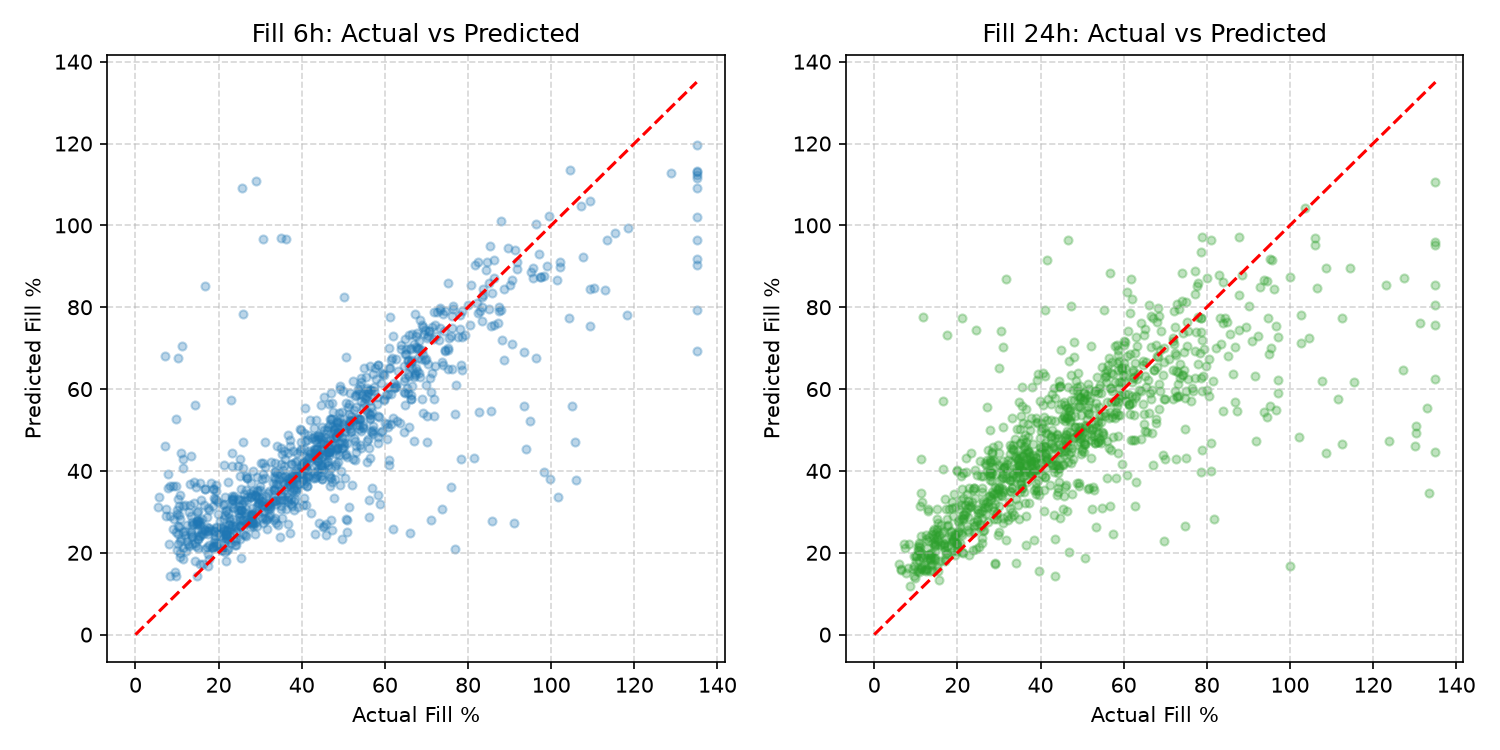
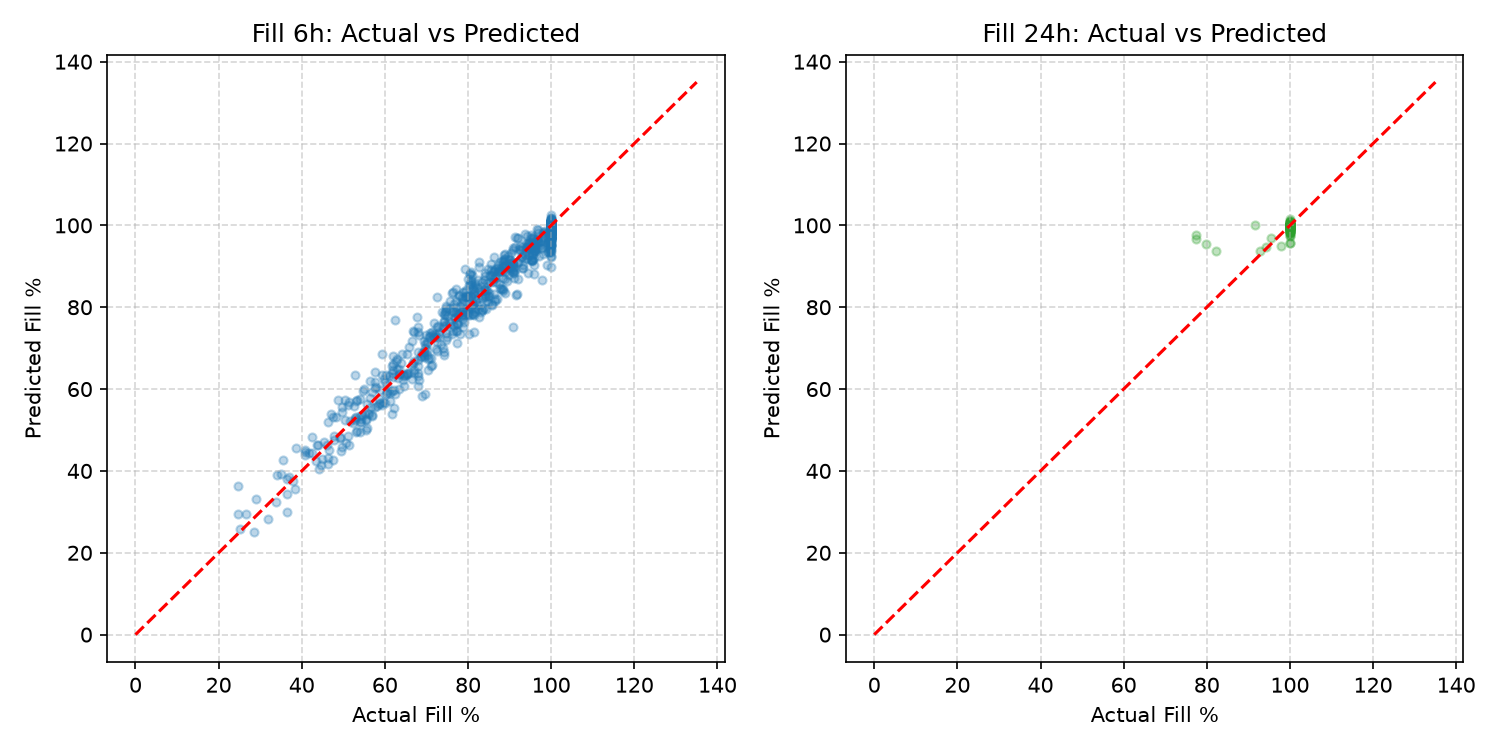
add synthetic Ahmedabad dataset, train ML pipelines, and generate evaluation reports

diff --git a/ml_model/src/fill_prediction/generate_fill_data.py b/ml_model/src/fill_prediction/generate_fill_data.py
@@ -1,0 +1,105 @@
+"""
+Generate synthetic ahmedabad_bin_fill_history.csv for training fill prediction models.
+Uses ahmedabad_bins.csv as the base entity source.
+"""
+import random
+from pathlib import Path
+import pandas as pd
+import numpy as np
+
+DATA_DIR = Path(__file__).resolve().parents[2] / "data"
+BINS_CSV = DATA_DIR / "ahmedabad_bins.csv"
+OUTPUT_CSV = DATA_DIR / "ahmedabad_bin_fill_history.csv"
+
+def generate_fill_history(num_records=25000):
+    print(f"Reading bins from {BINS_CSV}...")
+    bins_df = pd.read_csv(BINS_CSV)
+    
+    np.random.seed(42)
+    random.seed(42)
+    
+    # Sample bins
+    sampled_bins = bins_df.sample(n=num_records, replace=True, random_state=42).reset_index(drop=True)
+    
+    seasons = ["Summer", "Monsoon", "Winter", "Spring"]
+    
+    hours = np.random.randint(0, 24, size=num_records)
+    days_of_week = np.random.randint(0, 7, size=num_records)
+    is_weekend = np.where(days_of_week >= 5, 1, 0)
+    months = np.random.randint(1, 13, size=num_records)
+    
+    # Seasons by month
+    def get_season(m):
+        if m in [3, 4, 5, 6]: return "Summer"
+        if m in [7, 8, 9]: return "Monsoon"
+        if m in [10, 11]: return "Autumn"
+        return "Winter"
+    
+    season_col = [get_season(m) for m in months]
+    
+    capacity_kg = sampled_bins["capacity_kg"].values.astype(float)
+    fill_pct = np.clip(np.random.normal(55, 25, size=num_records), 5, 95).round(1)
+    weight_kg = (fill_pct / 100.0 * capacity_kg * np.random.uniform(0.7, 1.1, size=num_records)).round(1)
+    
+    hours_since = np.random.uniform(1.0, 36.0, size=num_records).round(1)
+    avg_daily_gen = (capacity_kg * np.random.uniform(0.8, 1.8, size=num_records)).round(1)
+    daily_gen = (avg_daily_gen * np.random.uniform(0.7, 1.3, size=num_records)).round(1)
+    
+    temp_c = np.random.uniform(22.0, 43.0, size=num_records).round(1)
+    rainfall = np.where(np.array(season_col) == "Monsoon", np.random.exponential(12.0, size=num_records), 0.0).round(1)
+    humidity = np.random.uniform(30.0, 85.0, size=num_records).round(1)
+    
+    holiday = np.random.choice([0, 1], size=num_records, p=[0.92, 0.08])
+    festival = np.random.choice([0, 1], size=num_records, p=[0.95, 0.05])
+    market_level = np.random.choice([0.0, 1.0, 2.0, 3.0], size=num_records, p=[0.4, 0.3, 0.2, 0.1])
+    event_level = np.random.choice([0.0, 1.0, 2.0, 3.0], size=num_records, p=[0.6, 0.25, 0.1, 0.05])
+    
+    # Generation rate per hour (% of capacity)
+    hourly_fill_rate = (daily_gen / 24.0 / capacity_kg * 100.0)
+    hourly_fill_rate *= (1.0 + is_weekend * 0.2 + event_level * 0.15 + market_level * 0.1)
+    
+    fill_6h = np.clip(fill_pct + 6.0 * hourly_fill_rate + np.random.normal(0, 3, size=num_records), 0, 100).round(1)
+    fill_12h = np.clip(fill_pct + 12.0 * hourly_fill_rate + np.random.normal(0, 5, size=num_records), 0, 100).round(1)
+    fill_24h = np.clip(fill_pct + 24.0 * hourly_fill_rate + np.random.normal(0, 8, size=num_records), 0, 100).round(1)
+    
+    # Train / Val / Test split
+    splits = np.random.choice(["train", "validation", "test"], size=num_records, p=[0.70, 0.15, 0.15])
+    
+    # Timestamps
+    timestamps = pd.date_range(start="2025-01-01", periods=num_records, freq="15min").astype(str)
+    
+    df = pd.DataFrame({
+        "bin_id": sampled_bins["bin_id"],
+        "timestamp": timestamps,
+        "split": splits,
+        "waste_stream": sampled_bins["waste_stream"],
+        "season": season_col,
+        "zone_name": sampled_bins["zone_name"],
+        "fill_percentage": fill_pct,
+        "estimated_weight_kg": weight_kg,
+        "capacity_kg": capacity_kg,
+        "hours_since_collection": hours_since,
+        "daily_generation_kg": daily_gen,
+        "avg_daily_generation_kg": avg_daily_gen,
+        "hour": hours,
+        "day_of_week": days_of_week,
+        "is_weekend": is_weekend,
+        "month": months,
+        "temperature_c": temp_c,
+        "rainfall_mm": rainfall,
+        "humidity": humidity,
+        "holiday_flag": holiday,
+        "festival_flag": festival,
+        "market_activity_level": market_level,
+        "event_activity_level": event_level,
+        "fill_percentage_6h": fill_6h,
+        "fill_percentage_12h": fill_12h,
+        "fill_percentage_24h": fill_24h,
+    })
+    
+    print(f"Saving {len(df):,} records to {OUTPUT_CSV}...")
+    df.to_csv(OUTPUT_CSV, index=False)
+    print("Generation complete!")
+
+if __name__ == "__main__":
+    generate_fill_history()
